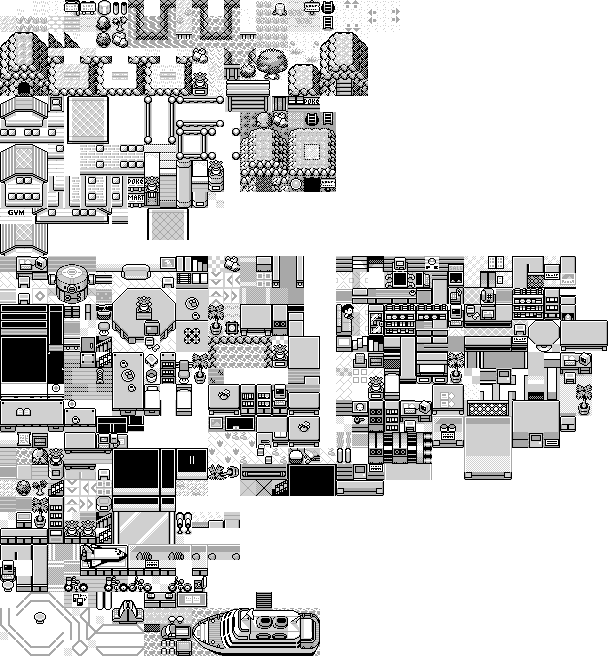
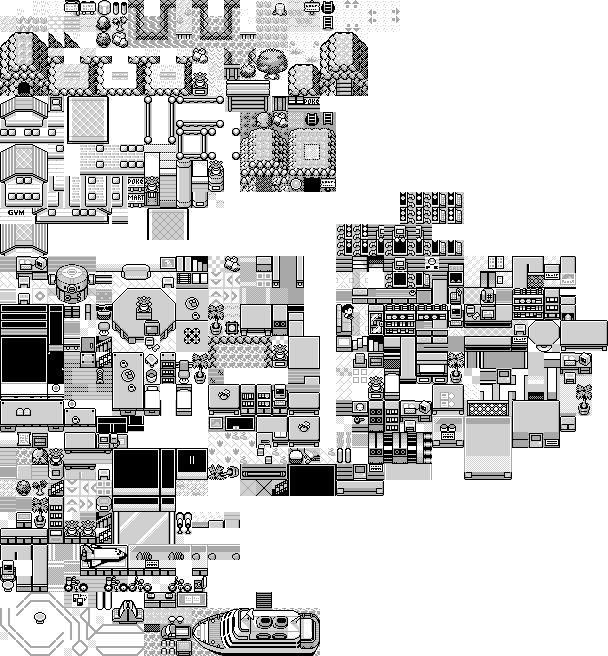
🗺 Draft tp

Changed region(s): [[0.5312, 0.2744, 0.7812, 0.3963]]

diff --git a/Editor/src/index.js b/Editor/src/index.js
@@ -18,6 +18,8 @@ import {
 } from './store/actions/contexts.actions';
 import {
   setBackgroundMap,
+  setEndMovePoint,
+  setEraseMap,
   setForegroundMap,
   setLayerMap,
   setMaps,
@@ -25,6 +27,7 @@ import {
   setSelectedCanvas,
   setSelectedElement,
   setSelectedElementPositions,
+  SetStartMovePoint,
 } from './store/actions/canvas.actions';
 import { animation } from './utils/animations';
 import { exportMaps, uploadMaps } from './utils';
@@ -237,9 +240,6 @@ const getCurrentElementOnClickHandler = (
 
   if (element) {
     switch (name) {
-      case 'erase':
-        store.dispatch(setSelectedElement(backgroundTile.list.empty));
-        break;
       case 'start':
         store.dispatch(setSelectedElement(backgroundTile.list.start));
         break;
@@ -262,22 +262,43 @@ const setCurrentElementOnClickHandler = (
   const { x, y } = getMousePos(backgroundCanvas, clickEvent);
   const backgroundX = Math.floor(x / (backgroundTile.width * eCanvas.scale));
   const backgroundY = Math.floor(y / (backgroundTile.height * eCanvas.scale));
+  const { id, ids, layer } = selectedElement || {};
 
-  if (selectedElement && selectedElement.id === backgroundTile.list.start.id) {
-    store.dispatch(setPlayerPositions(backgroundX, backgroundY));
-  } else {
-    const { id, ids, layer } = selectedElement;
-    switch (selectedCanvas) {
-      case 'background':
-        store.dispatch(setBackgroundMap(backgroundX, backgroundY, { id, ids }));
-        break;
-      case 'foreground':
-        store.dispatch(setForegroundMap(backgroundX, backgroundY, { id, ids }));
-        store.dispatch(setLayerMap(backgroundX, backgroundY, layer));
-        break;
-      case 'layer':
-        store.dispatch(setLayerMap(backgroundX, backgroundY, layer));
-    }
+  switch (id) {
+    case backgroundTile.list.start.id:
+      store.dispatch(setPlayerPositions(backgroundX, backgroundY));
+      break;
+    case backgroundTile.list.erase.id:
+      store.dispatch(setEraseMap(backgroundX, backgroundY, selectedCanvas));
+      break;
+    case backgroundTile.list.portalIn.id:
+      store.dispatch(
+        SetStartMovePoint(backgroundX, backgroundY, prompt('Choose id')),
+      );
+      break;
+    case backgroundTile.list.portalOut.id:
+      store.dispatch(
+        setEndMovePoint(backgroundX, backgroundY, prompt('Choose id')),
+      );
+      break;
+    case backgroundTile.list.changeMap:
+      break;
+    default:
+      switch (selectedCanvas) {
+        case 'background':
+          store.dispatch(
+            setBackgroundMap(backgroundX, backgroundY, { id, ids }),
+          );
+          break;
+        case 'foreground':
+          store.dispatch(
+            setForegroundMap(backgroundX, backgroundY, { id, ids }),
+          );
+          store.dispatch(setLayerMap(backgroundX, backgroundY, layer));
+          break;
+        case 'layer':
+          store.dispatch(setLayerMap(backgroundX, backgroundY, layer));
+      }
   }
 };
 

diff --git a/Editor/src/store/reducers/canvas.reducer.js b/Editor/src/store/reducers/canvas.reducer.js
@@ -1,4 +1,4 @@
-import { backgroundTile } from '../../variables';
+import { layer as defaultLayer } from '../../../../src/variables';
 
 export const SetMaps = 'SET_MAP';
 export const SetBackgroundMap = 'SET_BACKGROUND_MAP';
@@ -8,6 +8,9 @@ export const SetSelectedElementPositions = 'SET_SELECTED_ELEMENT_POSITIONS';
 export const SetSelectedCanvas = 'SET_SELECTED_CANVAS';
 export const SetPlayerPositions = 'SET_PLAYER_POSITIONS';
 export const SetLayerMap = 'SET_LAYER_MAP';
+export const SetEraseMap = 'SET_ERASE_MAP';
+export const SetMovePoint = 'SET_MOVE_POINT';
+export const RemoveMovePoint = 'REMOVE_MOVE_POINT';
 
 const createMap = (baseElement, width, height) => {
   return JSON.parse(
@@ -26,11 +29,14 @@ const mapState = {
     x: null,
     y: null,
   },
-  layer: createMap(backgroundTile.list.empty.layer, 36, 36),
+  layer: createMap(defaultLayer.floor, 36, 36),
   selectedElement: null,
   selectedElementPositions: null,
   selectedCanvas: 'background',
+  movePoints: [],
 };
+
+// movePoint = { id: string: start: { x: number, y: number }, end: { x: number, y: number } } }
 
 export function canvasReducer(state = mapState, { type, payload }) {
   switch (type) {
@@ -46,12 +52,15 @@ export function canvasReducer(state = mapState, { type, payload }) {
     case SetLayerMap: {
       return handleSideEffectLayer(state, payload);
     }
+    case SetEraseMap: {
+      return handleSideEffect(payload.canvas)(state, payload);
+    }
     case SetMaps: {
       let { background, foreground, layer } = payload;
 
       background = background || createMap(null, 36, 36);
       foreground = foreground || createMap(null, 36, 36);
-      layer = layer || createMap(backgroundTile.list.empty.layer, 36, 36);
+      layer = layer || createMap(defaultLayer.floor, 36, 36);
 
       return { ...state, background, foreground, layer };
     }
@@ -64,9 +73,34 @@ export function canvasReducer(state = mapState, { type, payload }) {
     case SetSelectedElementPositions: {
       return { ...state, selectedElementPositions: payload };
     }
+    case SetMovePoint: {
+      return {
+        ...state,
+        movePoints: handleAddMovePoint(state.movePoints, payload),
+      };
+    }
+    case RemoveMovePoint: {
+      return {
+        ...state,
+        movePoints: handleRemoveMovePoint(state.movePoints, payload),
+      };
+    }
     default:
       return state;
   }
+}
+
+function handleAddMovePoint(movePoints, payload) {
+  if (movePoints.filter(({ id }) => id === payload.id).length) {
+    return movePoints.map(movePoint =>
+      movePoint.id === payload.id ? { ...movePoint, ...payload } : movePoint,
+    );
+  }
+  return [...movePoints, payload];
+}
+
+function handleRemoveMovePoint(movePoints, payload) {
+  return movePoints.filter(movePoint => movePoint.id !== payload.id);
 }
 
 function handleSideEffect(mapName) {

diff --git a/src/variables.js b/src/variables.js
@@ -129,6 +129,7 @@ export const backgroundTile = {
     pathDelimiter6: { layer: layer.floor, id: 156 },
     pathDelimiter7: { layer: layer.floor, id: 157 },
     pathDelimiter8: { layer: layer.floor, id: 158 },
+    tree: { layer: layer.obstacle, id: 159 },
     pathDelimiter9: { layer: layer.floor, id: 160 },
     pathDelimiter10: { layer: layer.floor, id: 161 },
     pathDelimiter11: { layer: layer.floor, id: 162 },
@@ -136,6 +137,7 @@ export const backgroundTile = {
     pathDelimiter12: { layer: layer.floor, id: 164 },
     pathDelimiter13: { layer: layer.floor, id: 165 },
     pathDelimiter13b: { layer: layer.floor, id: 166 },
+    tree2: { layer: layer.floor, id: 167 },
     pathDelimiter14: { layer: layer.floor, id: 168 },
     pathDelimiter15: { layer: layer.floor, id: 169 },
     pathDelimiter16: { layer: layer.floor, id: 170 },
@@ -143,6 +145,7 @@ export const backgroundTile = {
     pathDelimiter18: { layer: layer.floor, id: 172 },
     pathDelimiter19: { layer: layer.floor, id: 173 },
     whiteGround: { layer: layer.floor, id: 174 },
+    block: { layer: layer.floor, id: 175 },
     topFlower: { layer: layer.obstacle, id: 176 },
     topBookShelf: { layer: layer.obstacle, id: 177 },
     topLeftTable: { layer: layer.obstacle, id: 178 },

diff --git a/Editor/src/store/actions/canvas.actions.js b/Editor/src/store/actions/canvas.actions.js
@@ -7,7 +7,11 @@ import {
   SetSelectedCanvas,
   SetSelectedElement,
   SetSelectedElementPositions,
+  SetEraseMap,
+  SetMovePoint,
+  RemoveMovePoint,
 } from '../reducers/canvas.reducer';
+import { layer } from '../../variables';
 
 export const setBackgroundMap = (x, y, element) => ({
   type: SetBackgroundMap,
@@ -24,6 +28,16 @@ export const setForegroundMap = (x, y, element) => ({
     x,
     y,
     element,
+  },
+});
+
+export const setEraseMap = (x, y, canvas) => ({
+  type: SetEraseMap,
+  payload: {
+    x,
+    y,
+    canvas,
+    element: canvas.includes('layer') ? layer.floor : null,
   },
 });
 
@@ -64,5 +78,34 @@ export const setLayerMap = (x, y, element) => ({
     x,
     y,
     element,
+  },
+});
+
+export const SetStartMovePoint = (x, y, id) => ({
+  type: SetMovePoint,
+  payload: {
+    start: {
+      x,
+      y,
+    },
+    id,
+  },
+});
+
+export const setEndMovePoint = (x, y, id) => ({
+  type: SetMovePoint,
+  payload: {
+    end: {
+      x,
+      y,
+    },
+    id,
+  },
+});
+
+export const removeMovePoint = id => ({
+  type: RemoveMovePoint,
+  payload: {
+    id,
   },
 });

diff --git a/Editor/src/variables.js b/Editor/src/variables.js
@@ -24,10 +24,7 @@ export const backgroundTile = {
       id: 79,
     },
     portalOut: { id: 87 },
-    empty: {
-      id: 300,
-      layer: layer.floor,
-    },
+    changeMap: { id: 135 },
   },
 };
 
